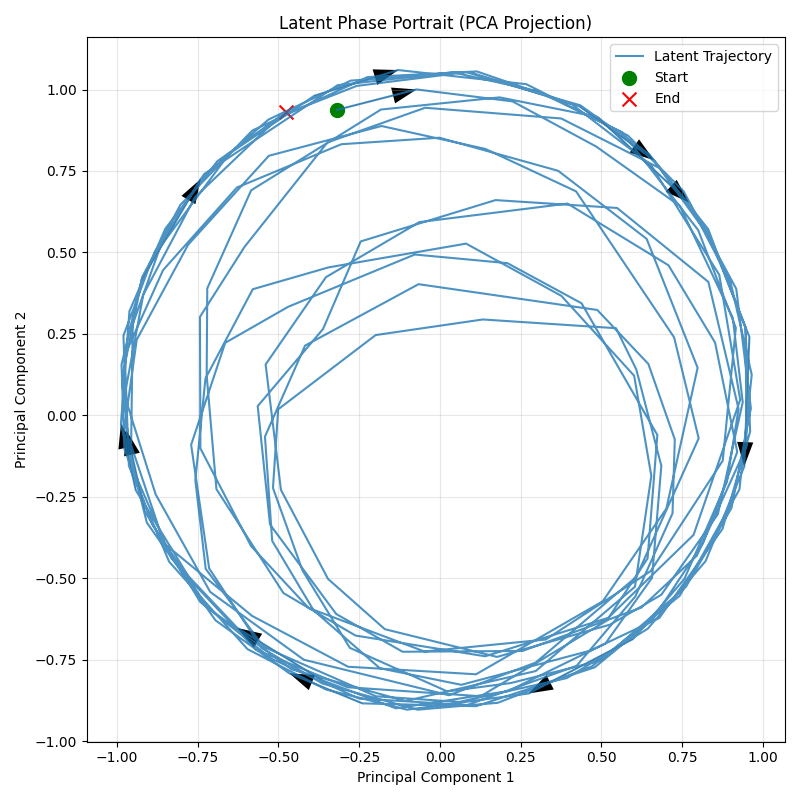
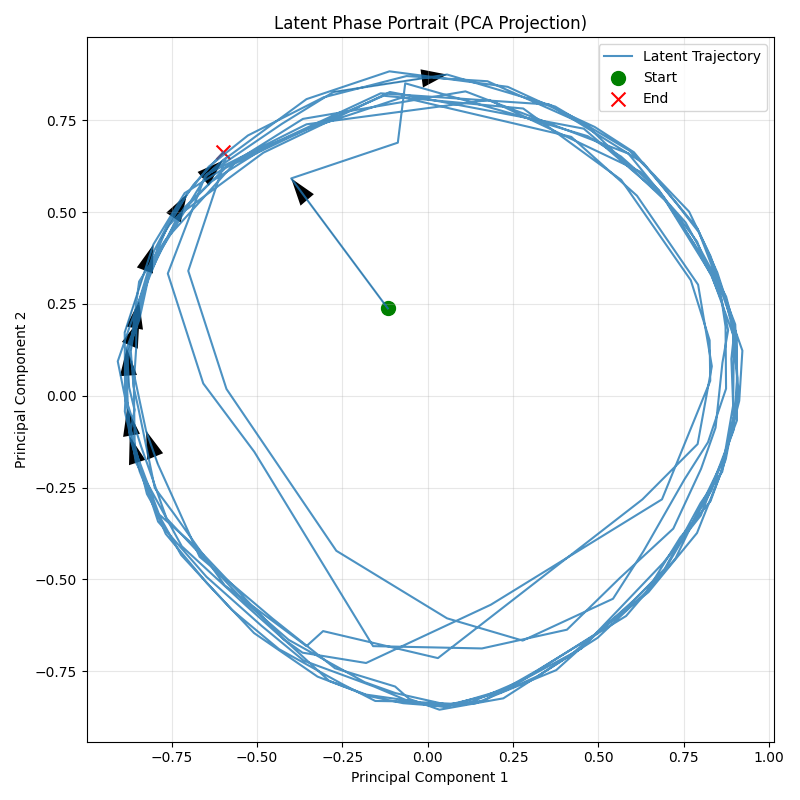
zz

diff --git a/main.py b/main.py
@@ -131,34 +131,38 @@ class Dynamics(nn.Module):
             return tangent_vel
 
         # 3. Projected RK4 Integration
-        h = 1.0 # Step size (1 time step)
+        # We use substepping to increase fidelity of the integration
+        substeps = 4
+        h = 1.0 / substeps
         
         # Retraction Operator
         def retract(z_base, v):
             z_new = z_base + v
             return z_new / jnp.maximum(jnp.linalg.norm(z_new, axis=-1, keepdims=True), 1e-8)
 
-        # RK4 Steps
-        # k1 = f(z)
-        k1 = vector_field(z)
-        
-        # k2 = f(Retract(z, h/2 * k1))
-        z_k2 = retract(z, 0.5 * h * k1)
-        k2 = vector_field(z_k2)
-        
-        # k3 = f(Retract(z, h/2 * k2))
-        z_k3 = retract(z, 0.5 * h * k2)
-        k3 = vector_field(z_k3)
-        
-        # k4 = f(Retract(z, h * k3))
-        z_k4 = retract(z, h * k3)
-        k4 = vector_field(z_k4)
-        
-        # Combine
-        v_final = (h / 6.0) * (k1 + 2*k2 + 2*k3 + k4)
-        
-        # Final Retraction
-        z_next = retract(z, v_final)
+        z_next = z
+        for _ in range(substeps):
+            # RK4 Steps
+            # k1 = f(z)
+            k1 = vector_field(z_next)
+            
+            # k2 = f(Retract(z, h/2 * k1))
+            z_k2 = retract(z_next, 0.5 * h * k1)
+            k2 = vector_field(z_k2)
+            
+            # k3 = f(Retract(z, h/2 * k2))
+            z_k3 = retract(z_next, 0.5 * h * k2)
+            k3 = vector_field(z_k3)
+            
+            # k4 = f(Retract(z, h * k3))
+            z_k4 = retract(z_next, h * k3)
+            k4 = vector_field(z_k4)
+            
+            # Combine
+            v_final = (h / 6.0) * (k1 + 2*k2 + 2*k3 + k4)
+            
+            # Final Retraction for this substep
+            z_next = retract(z_next, v_final)
         
         return z_next
 
@@ -394,7 +398,7 @@ def main():
     seq_len = 256
     channels = 16
     latent_dim = 32
-    num_epochs = 20
+    num_epochs = 10
     batch_size = 64
     
     model = ManifoldFormer(input_dim=channels, latent_dim=latent_dim)
@@ -412,9 +416,11 @@ def main():
     train_seq_len = seq_len - 1
 
     # Init with RNG
+    # Init with RNG
     init_rng, train_rng = jrandom.split(key)
     params = model.init(init_rng, jnp.ones((batch_size, train_seq_len, channels)), init_rng)['params']
-    optimizer = optax.adamw(1e-3)
+    
+    optimizer = optax.adamw(learning_rate=1e-4)
     state = train_state.TrainState.create(apply_fn=model.apply, params=params, tx=optimizer)
     
     for epoch in range(num_epochs):
